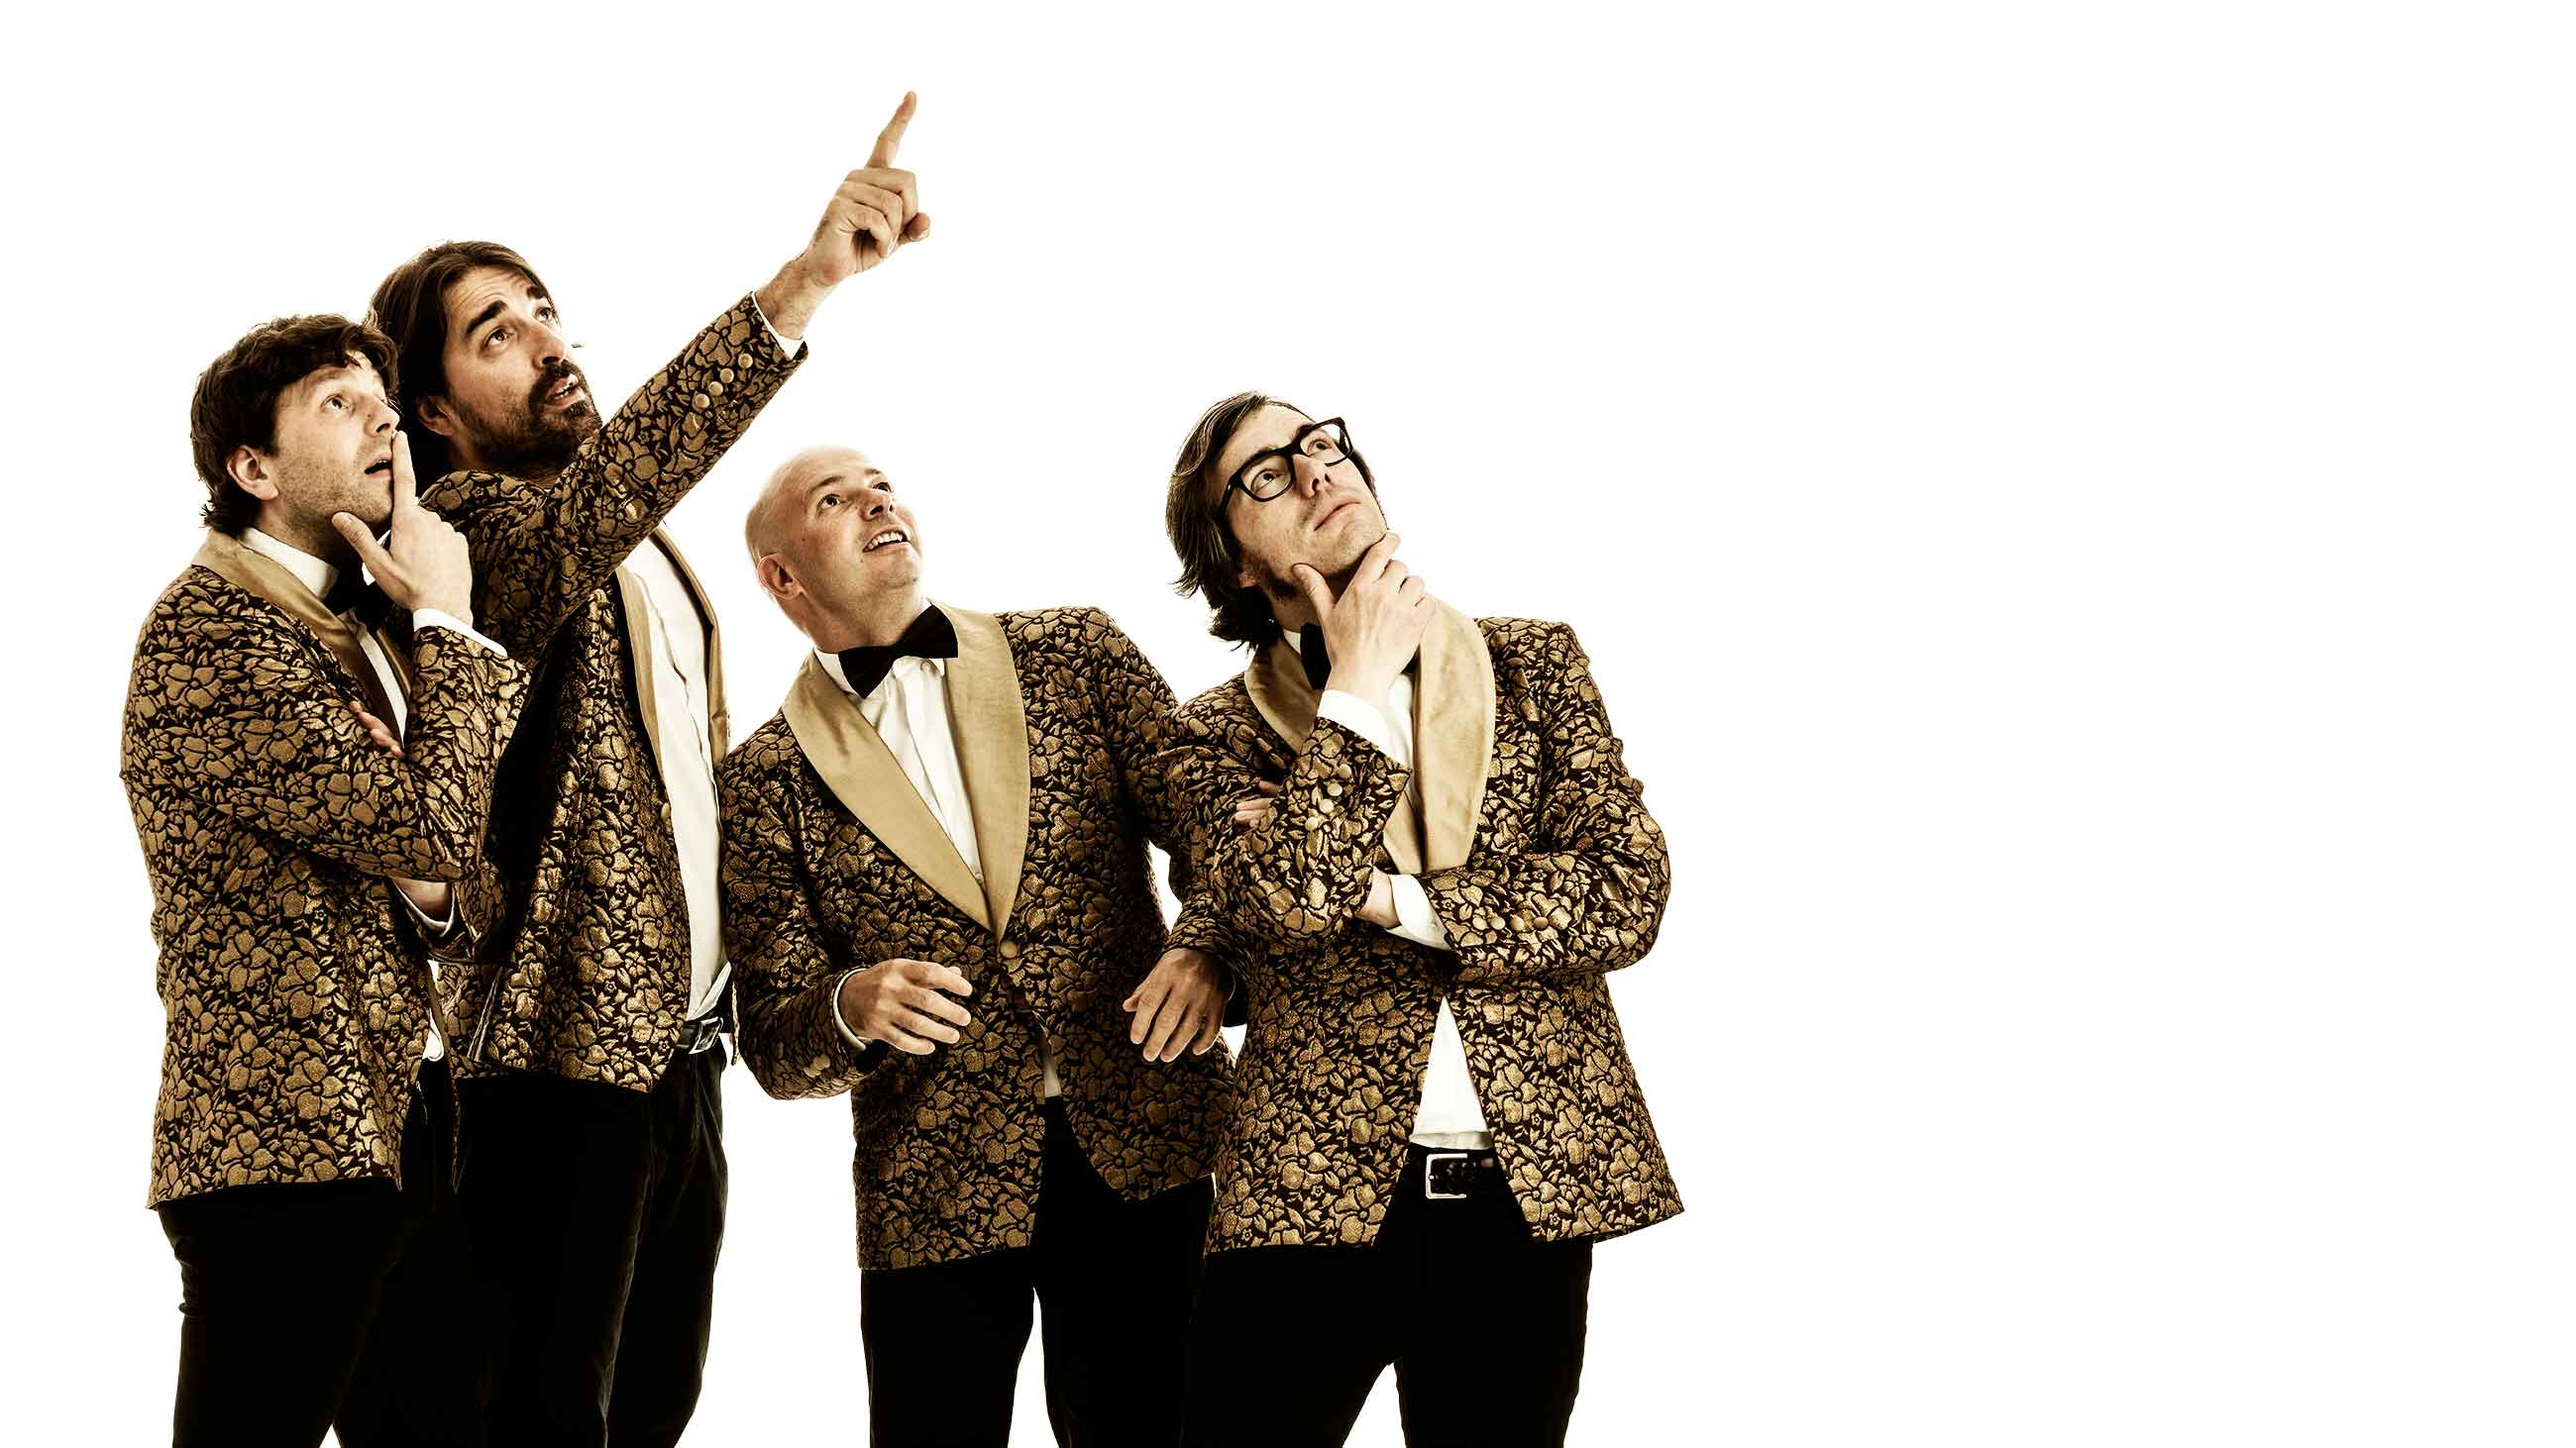
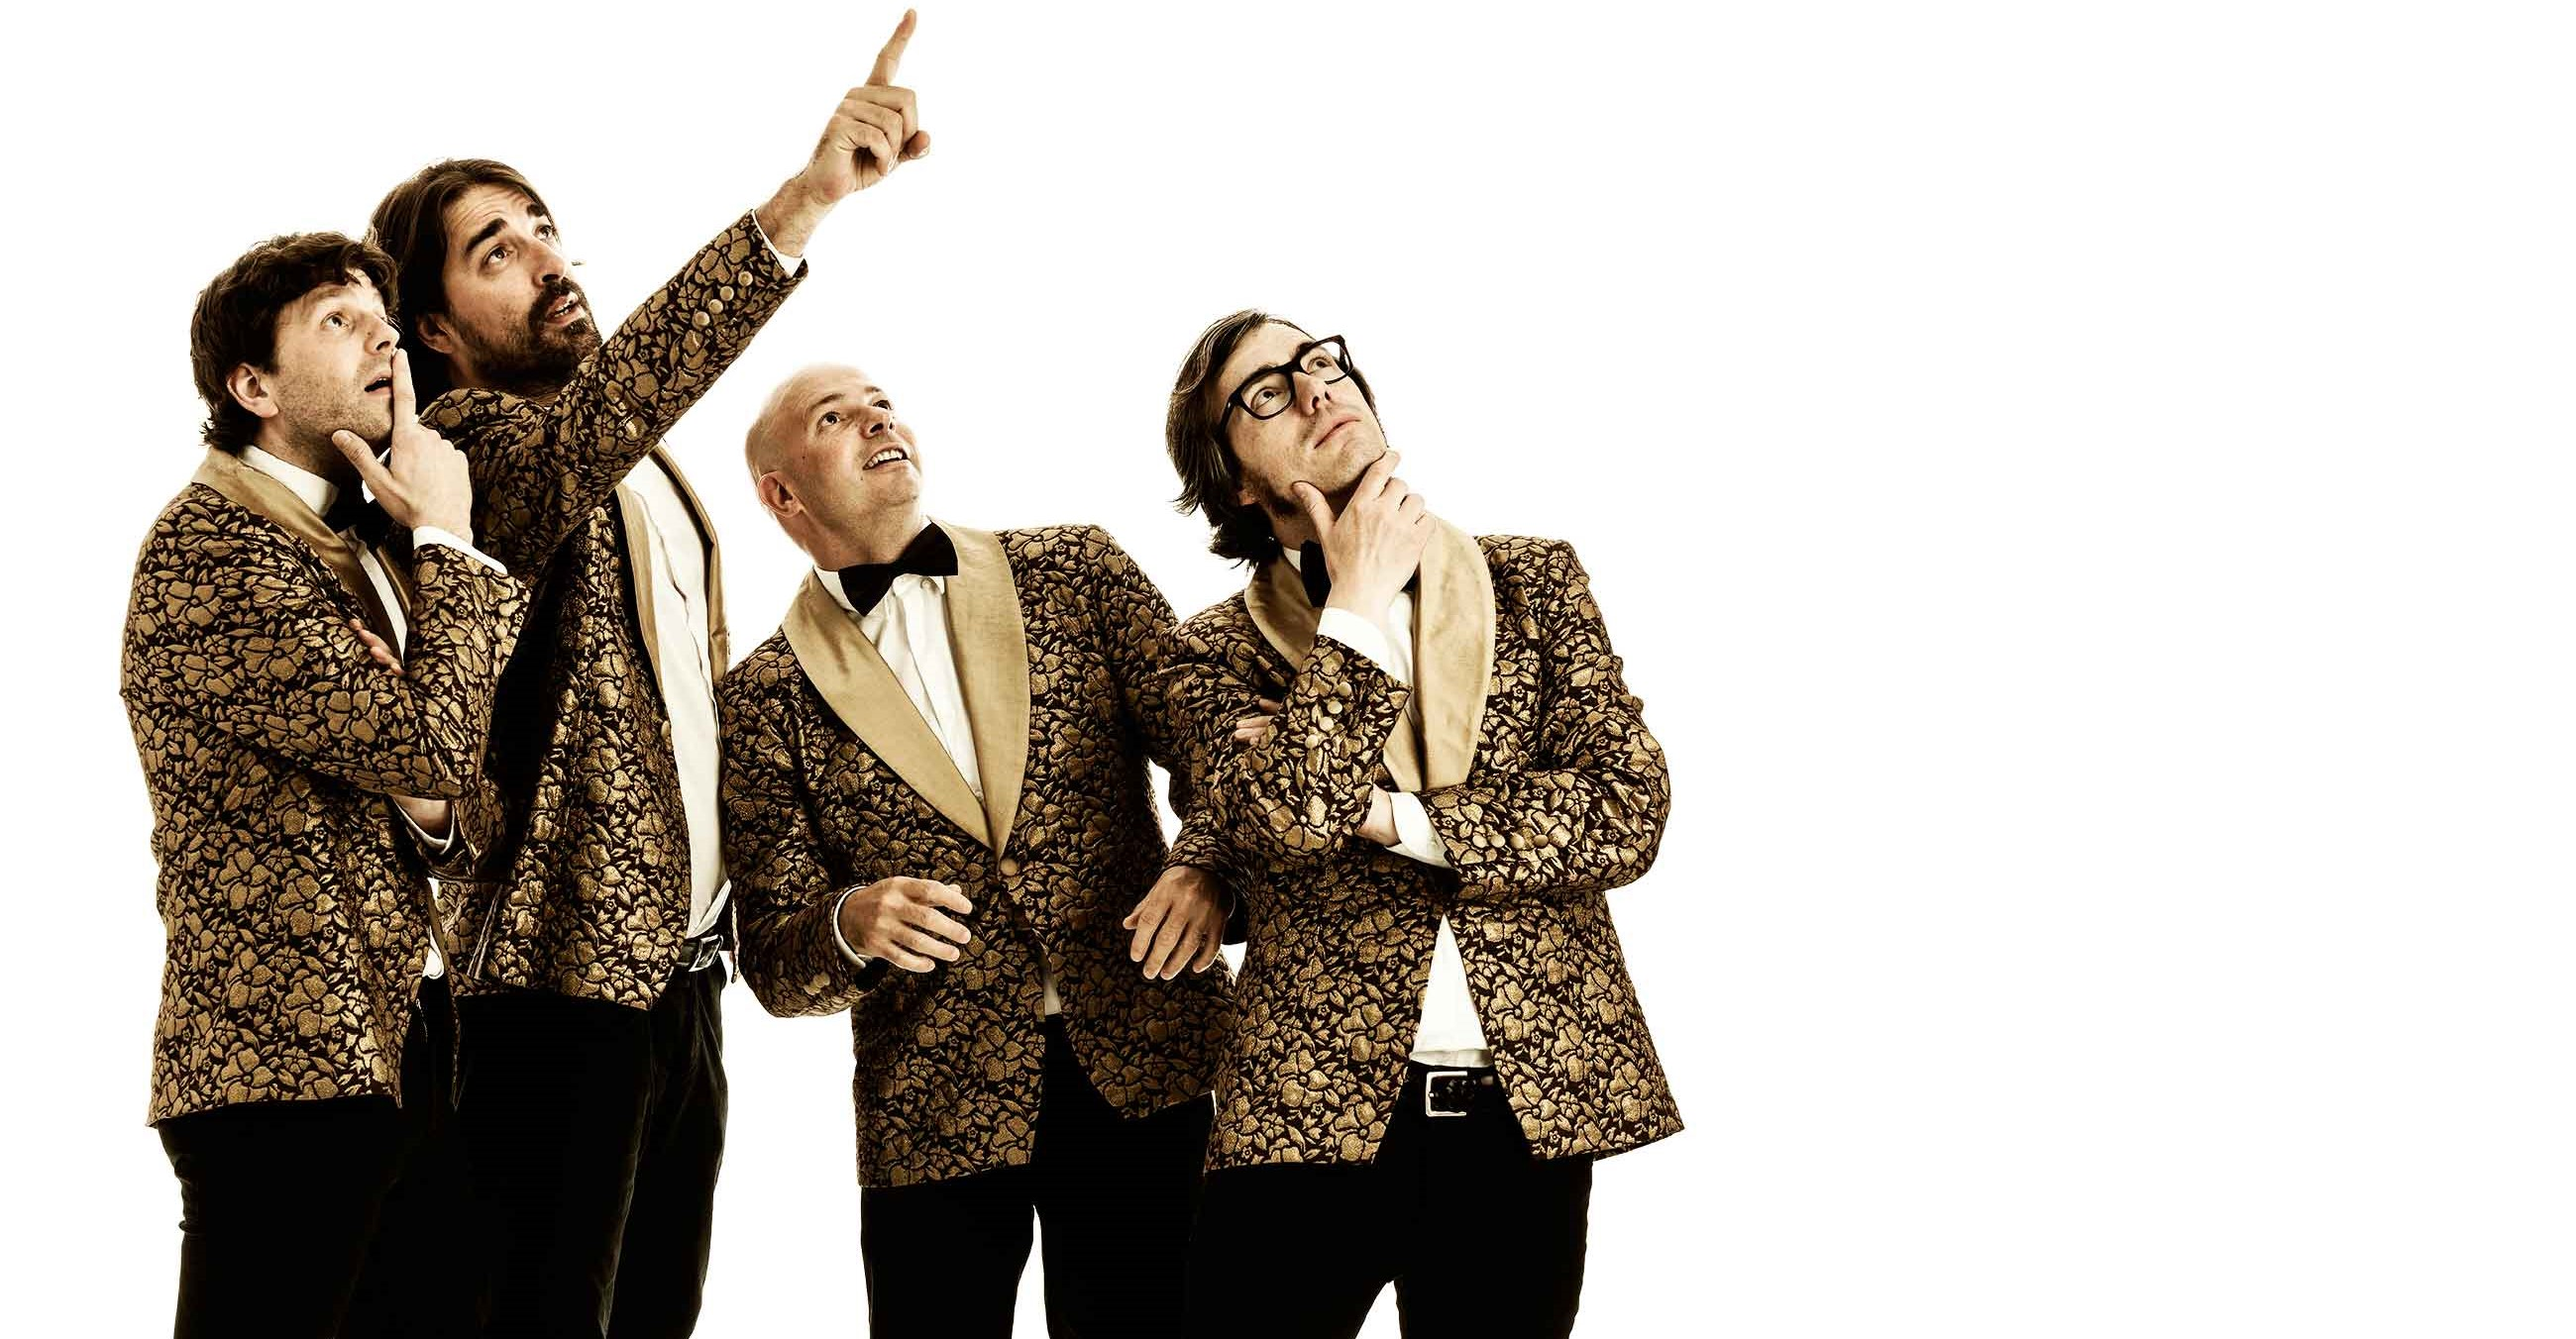
repositioned text and images

diff --git a/public/css/style.css b/public/css/style.css
@@ -1,12 +1,19 @@
 @charset "UTF-8";
 @import url("https://fonts.googleapis.com/css2?family=Inter&family=Roboto+Mono:wght@300&display=swap");
 @import url("https://fonts.googleapis.com/css2?family=Inter&family=Roboto+Mono:wght@300&display=swap");
+* {
+  margin: 0;
+}
+
+main {
+  text-align: center;
+}
+
 #imgBanner {
   width: 100%;
-  margin: 10% auto;
-  max-height: 1000px;
+  max-width: 1200px;
   object-fit: cover;
-  padding: 2% 10%;
+  padding: 2em 1em 0;
 }
 
 .containText {

diff --git a/src/sass/main.scss b/src/sass/main.scss
@@ -1,11 +1,18 @@
 @import './mixin.scss';
 
+ * {
+    margin: 0;
+
+ }
+
+main {
+    text-align: center;
+}
 #imgBanner {
     width: 100%; 
-    margin: 10% auto;
-    max-height: 1000px;
+    max-width: 1200px;
     object-fit: cover;
-    padding: 2% 10%;
+    padding: 2em 1em 0;
 
 }
 
